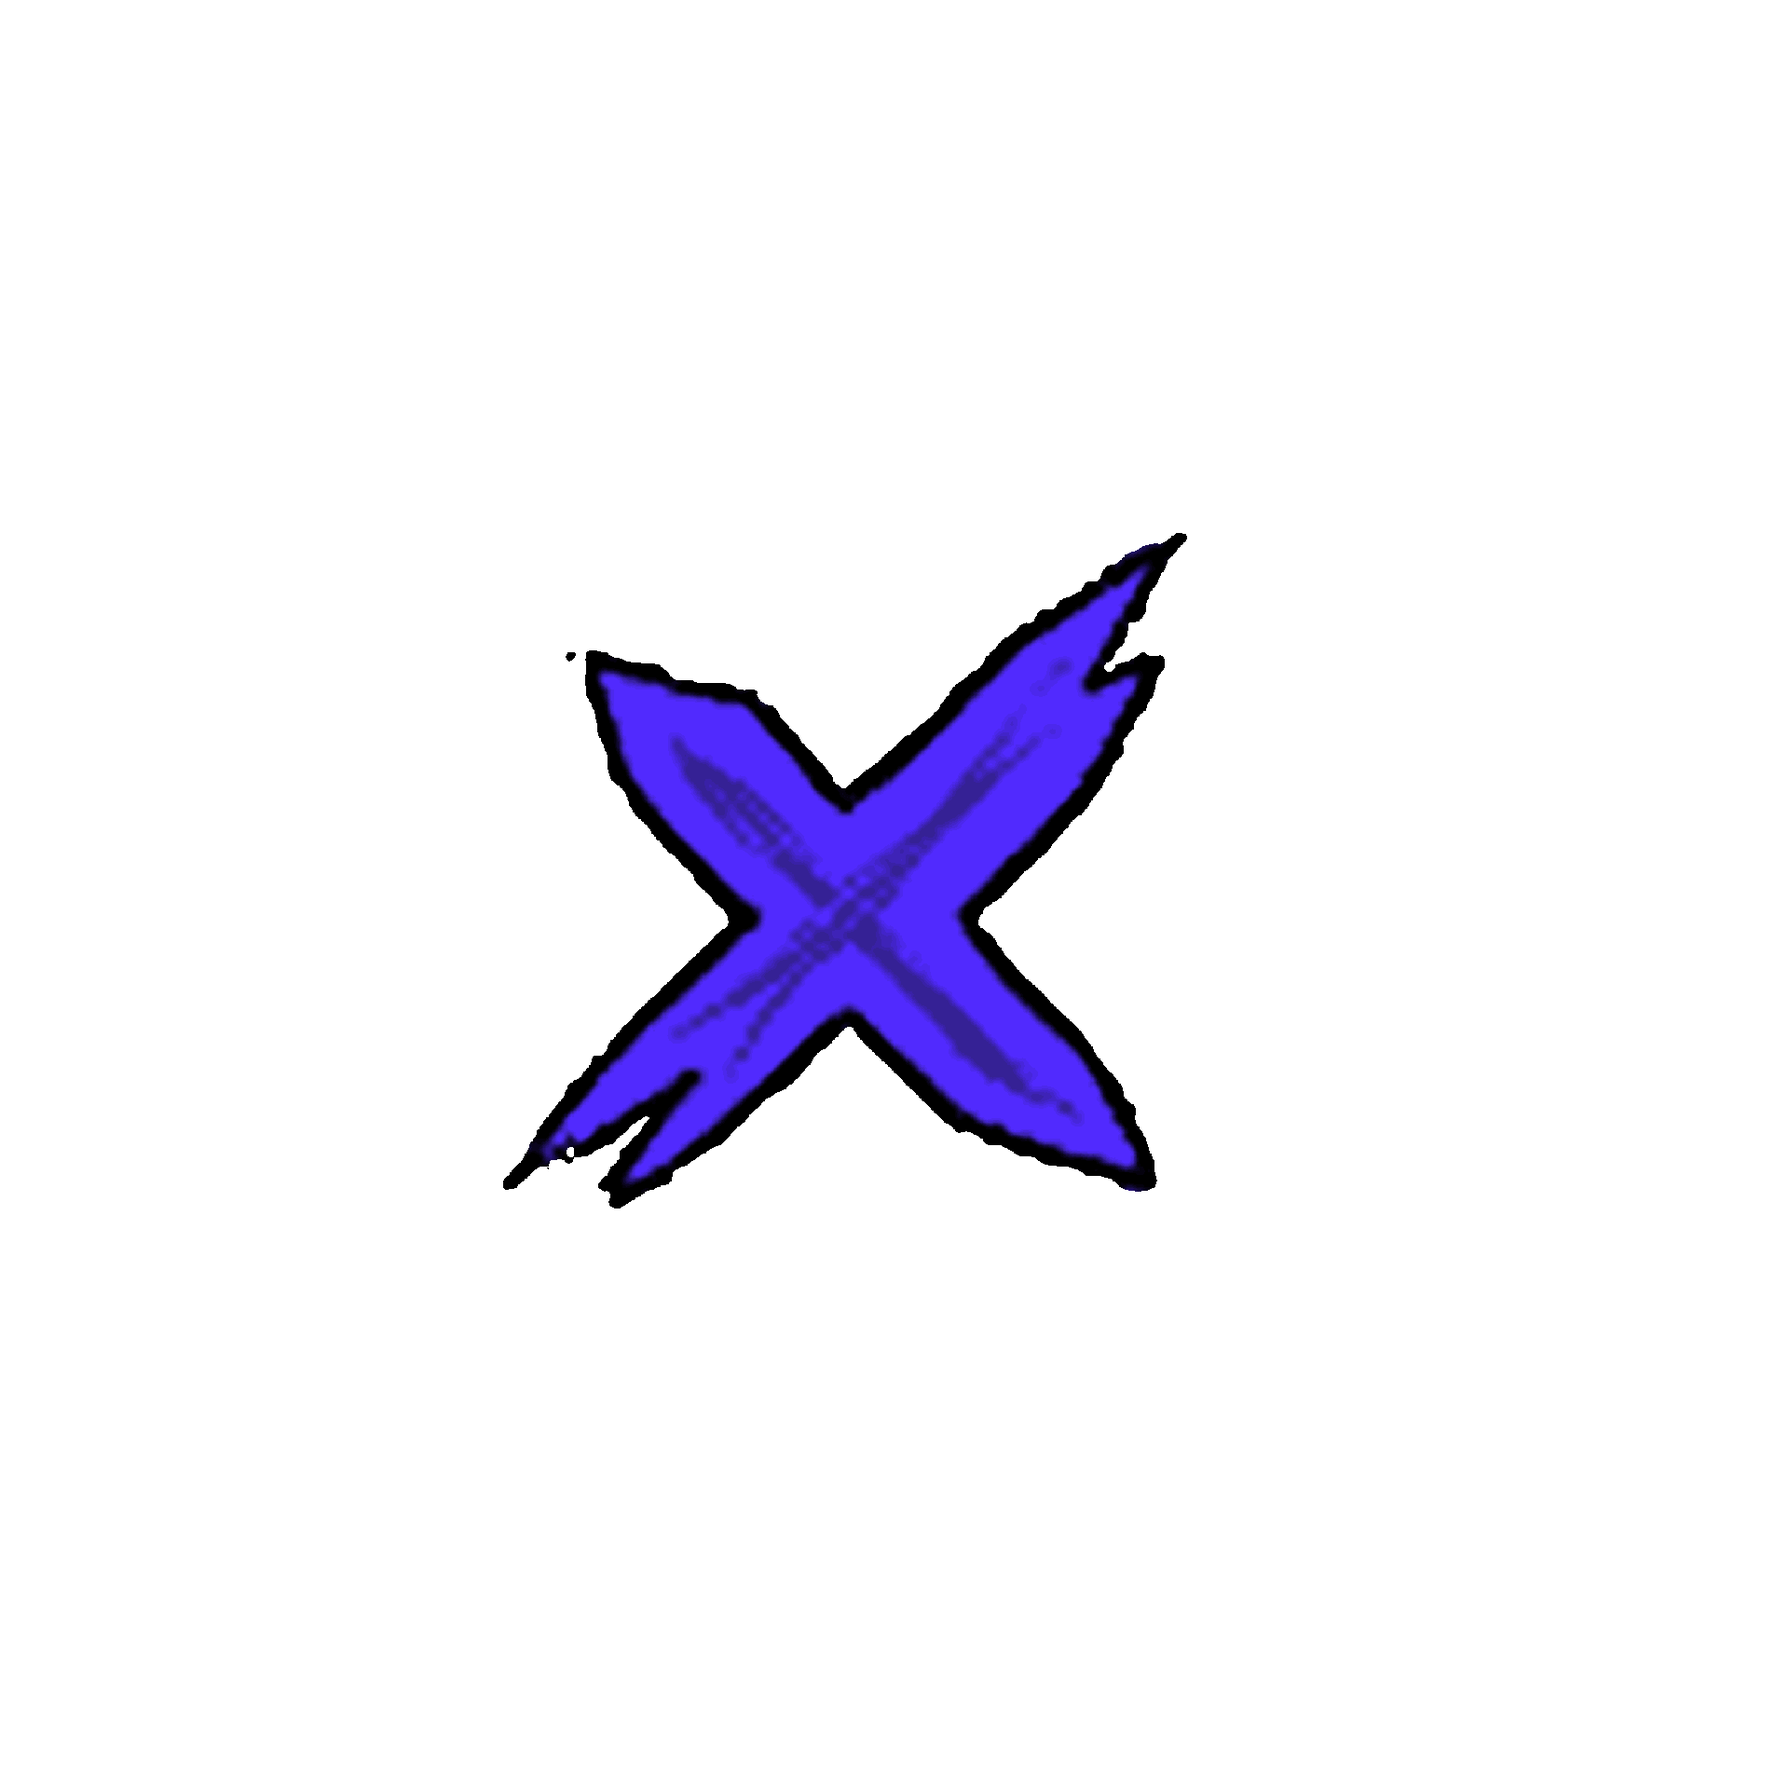
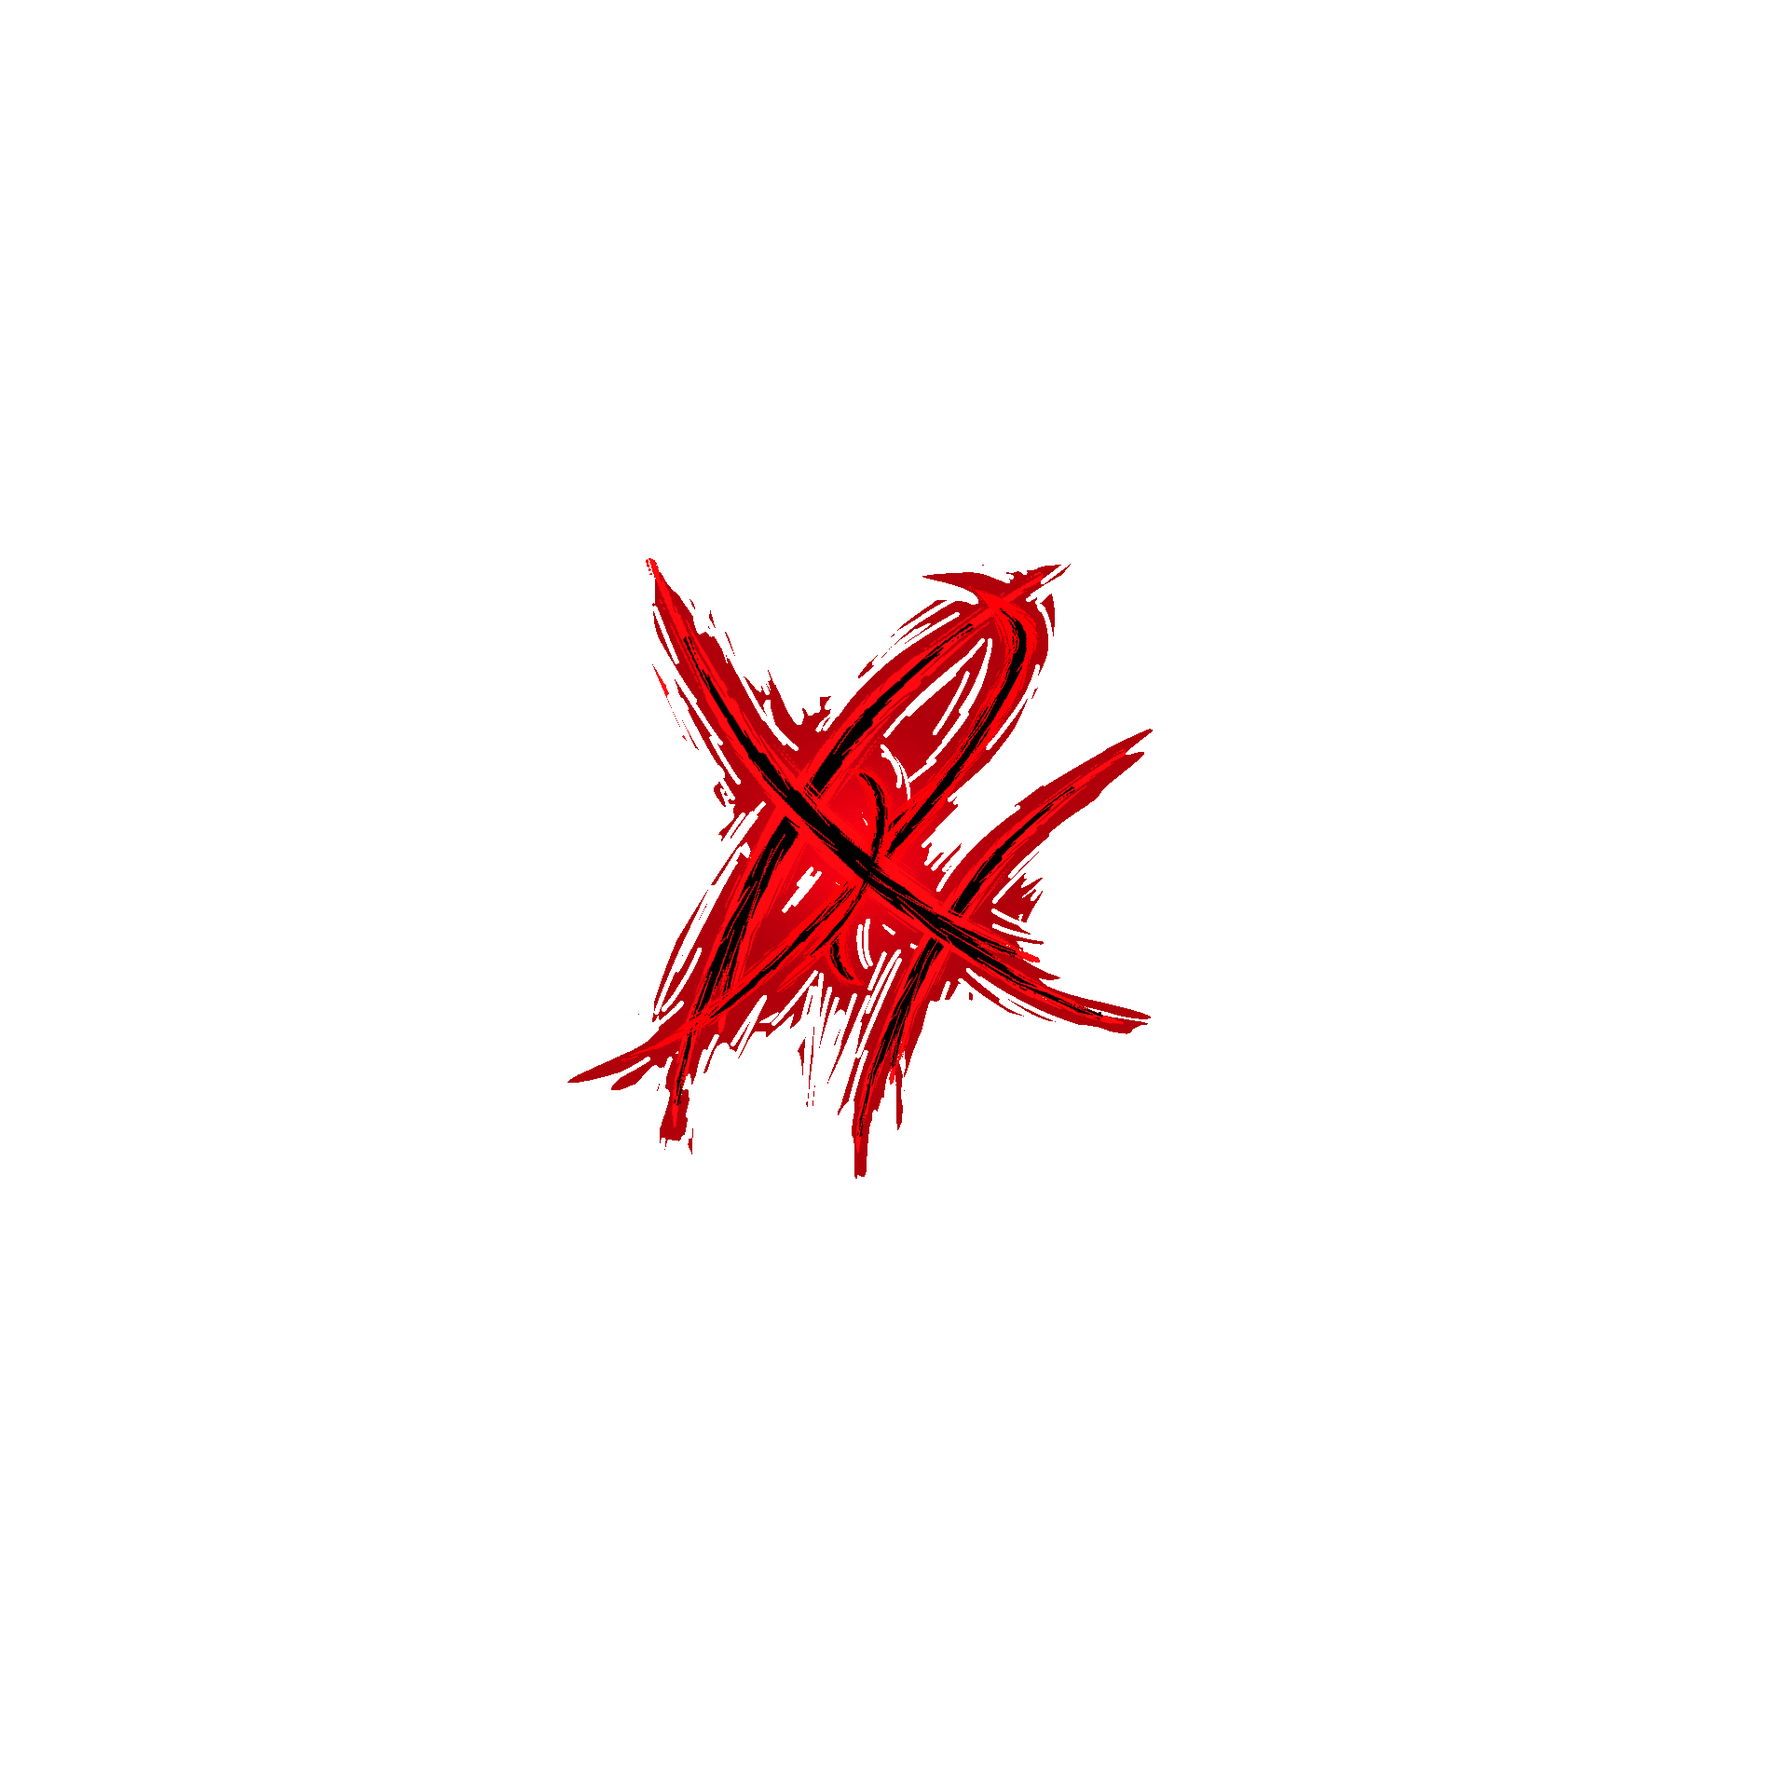
added new combo textures. also fixed pause to stagesleect

Changed region(s): [[0.2812, 0.2812, 0.6562, 0.6875]]

diff --git a/DX21_05_Init/Game.cpp b/DX21_05_Init/Game.cpp
@@ -231,37 +231,37 @@ void DrawComboUI(void)
         return;
     }
 
-    float comboX = 0.6f;   // right side
-    float comboY = 0.7f;   // top side
+    float comboX = 0.4f;   // right side
+    float comboY = 0.5f;   // top side
 
-    // change the size of it
-    float xWidth = 0.15f;   // Width of the "X" symbol
-    float xHeight = 0.15f;  // Height of the "X" symbol
-    float numberWidth = 0.1f;   // Width of the number
-    float numberHeight = 0.1f;  // Height of the number
-    float spaceBetweenDigits = 0.1f;
-
-    float pixelX = (SCREEN_WIDTH * 0.5f) - 120.0f;
-    float pixelY = (SCREEN_HEIGHT * 0.5f) - 40.0f;
+    // modify the size of it
+    float xWidth = 0.45f;   // Width of the "X" symbol
+    float xHeight = 0.5f;  // Height of the "X" symbol
+    float xYaxis = 0.45f; // change the y axis of the X symbol
+    float digitWidth = 0.15f;   // Width of the number
+    float digitHeight = 0.35f;
+    float digitYaxis = 0.55f;
+    float spaceBetweenDigits = 0.12f;
+    float spaceBetweenXandDigit = 0.08f;
 
     SetColor(1.0f, 1.0f, 1.0f, 1.0f);
 
     // Draw the "X" symbol
-    RenderImage(comboX, comboY, xWidth, xHeight, g_comboXTexture, 0, 1, 1);
+    RenderImage(comboX, xYaxis, xWidth, xHeight, g_comboXTexture, 0, 1, 1);
 
     char buffer[32];
-    sprintf_s(buffer, "%d", g_player.comboCount);
+    sprintf_s(buffer, "%d", g_player.comboCount); // it converts the number into digits
 
-    float numberXaxis = comboX + numberWidth + 0.02f; // for the first number x axis position
+    float digitXaxis = comboX + (xWidth * 0.5f) + spaceBetweenXandDigit; // for the first number x axis position 
 
     // Draw combo number
     for (int i = 0; buffer[i] != '\0'; i++)
     {
         int digit = buffer[i] - '0';  // 1 for frame 1, 2 for frame 2, 3 for frame 3, etc etc
-        RenderImage(numberXaxis, comboY, numberWidth, numberHeight,
-            pTextureNum, digit, 1, 10);
+        RenderImage(digitXaxis, digitYaxis, digitWidth, digitHeight,
+            g_comboNumberTexture, digit, 1, 10);
 
-        numberXaxis += spaceBetweenDigits;  // Move to next digit position
+        digitXaxis += spaceBetweenDigits; // Move to next digit position
     }
 
     // Combo remaining-time bar (under the combo UI)
@@ -274,16 +274,16 @@ void DrawComboUI(void)
 
     float barWidth = 0.28f;
     float barHeight = 0.025f;
-    float barX = comboX + 0.02f;
-    float barY = comboY - 0.12f;
+    float barX = comboX + 0.2f;
+    float barY = comboY - 0.02f;
 
     // background
     SetColor(0.05f, 0.05f, 0.05f, 0.75f);
-    RenderImage(barX, barY, barWidth, barHeight, g_groundTexture, 0, 1, 1);
+    RenderImage(barX, barY, barWidth, barHeight, g_bossHealthBarTexture, 0, 1, 1);
 
     // fill
-    SetColor(1.0f, 0.85f, 0.2f, 0.95f);
-    RenderImage(barX - (barWidth * (1.0f - ratio) * 0.5f), barY, barWidth * ratio, barHeight, g_groundTexture, 0, 1, 1);
+    SetColor(1.0f, 0.0f, 0.0f, 0.95f);
+    RenderImage(barX - (barWidth * (1.0f - ratio) * 0.5f), barY, barWidth * ratio, barHeight, g_bossHealthBarTexture, 0, 1, 1);
 
     SetColor(1.0f, 1.0f, 1.0f, 1.0f);
 }
@@ -494,9 +494,8 @@ void InitGameWorld() {
     LoadTexture(g_pDevice, "asset/UI/gauge/gauge_effect_max.png", &g_gaugeFullEffectTexture);
     g_gaugeEffectAnim.AddClip("GaugeFull", 1, 7, 1, 8, 0.08f, true, g_gaugeFullEffectTexture);
 
-
     LoadTexture(g_pDevice, "asset/UI/attack_count.png", &g_attackCountTestTexture);
-    //g_player.anim.AddClip("AttackCount", 2, 0, 1, 3, 0.08f, false, g_attackCountTestTexture);
+
 
     InitEnemies();
     g_mapManager.InitializeMaps();

diff --git a/DX21_05_Init/Enemy.cpp b/DX21_05_Init/Enemy.cpp
@@ -1896,11 +1896,13 @@ void BeamEnemy::OnDeath() {
 
 void BeamEnemy::CreateDeathExplosion() {
     // Damages other enemies but not the player
+    // the center position of this beam enemy
     float centerX = posX + width * 0.5f;
     float centerY = posY + height * 0.5f;
 
+    // the explosion is really big like a big circle OLD VERSION
     // Damage nearby enemies
-    for (auto& enemy : g_enemies) {
+    /*for (auto& enemy : g_enemies) {
         if (!enemy->IsAlive() || enemy == this) continue;
 
         float dx = enemy->GetX() + enemy->GetWidth() * 0.5f - centerX;
@@ -1909,6 +1911,43 @@ void BeamEnemy::CreateDeathExplosion() {
 
         if (distance <= deathExplosionRadius) {
             float angle = atan2(dy, dx);
+            enemy->TakeDamage((int)deathExplosionDamage, angle);
+        }
+    }*/
+
+    // with this the explosion is like "+" which is the laser shape when the beam enemy is killed
+    for (auto& enemy : g_enemies) {
+        if (!enemy->IsAlive() || enemy == this) continue;
+
+        // calculates the center position of the enemies
+        float enemyCenterX = enemy->GetX() + enemy->GetWidth() * 0.5f;
+        float enemyCenterY = enemy->GetY() + enemy->GetHeight() * 0.5f;
+
+        // for the horizontal and vertical distances between the two centers (the center is the beam enemy)
+        // fabs so the value is always positive
+        float distanceX = fabs(enemyCenterX - centerX);
+        float distanceY = fabs(enemyCenterY - centerY);
+
+        bool hitHorizontal = false;
+        bool hitVertical = false;
+
+        // Check horizontal beam (left and right line)
+        if (distanceY < beamHitboxWidth && distanceX < deathExplosionRadius) {
+            hitHorizontal = true;
+        }
+
+        // Check vertical beam (up and down line)
+        if (distanceX < beamHitboxWidth && distanceY < deathExplosionRadius) {
+            hitVertical = true;
+        }
+
+        // Hit if touching either line
+        bool hit = (hitHorizontal || hitVertical);
+
+        if (hit) {
+            float dx = enemyCenterX - centerX;
+            float dy = enemyCenterY - centerY;
+            float angle = atan2(dy, dx); // calculates the angle in radians  from one point to another from the beam enemy when hitting other enemies
             enemy->TakeDamage((int)deathExplosionDamage, angle);
         }
     }

diff --git a/DX21_05_Init/Player.cpp b/DX21_05_Init/Player.cpp
@@ -1157,36 +1157,17 @@ bool ConsumeDashPoint() {
     return false;
 }
 
-// Restore point on enemy defeat (reserved interface)
+// get kills on enemy defeat
 void OnEnemyDefeated() {
     // Track kill for statistics
     g_gameStats.IncrementKills();
-
-   /* if (g_player.dashPoints < g_player.MAX_DASH_POINTS) {
-        g_player.dashPoints++;
-    }*/
 }
 
 void OnEnemyDefeated(bool wasWeakPointKill) {
-    //// for 30 points kill
-    //if (wasWeakPointKill) {
-    //    g_gameStats.IncrementWeakPointKills();
-    //}
-    //else { // for 10 points kill
-    //    g_gameStats.IncrementKills();
-    //}
-
-    //if (g_player.dashPoints < g_player.MAX_DASH_POINTS) {
-    //    g_player.dashPoints++;
-    //}
-
-    //g_player.comboCount++;
-    //g_player.comboTimer = g_player.COMBO_RESET_TIME;  // Reset to 2.0f
-
     // Track kills for statistics
     if (wasWeakPointKill) {
         g_gameStats.IncrementWeakPointKills();  // 30 points
-        g_gameStats.AddScore(30);           // ← make sure this exists and adds 30
+        g_gameStats.AddScore(30); 
         printf("[POINTS] Weak kill +30 → total now = %d\n", g_gameStats.GetTotalEnemyPoints());
     }
     else {
@@ -1196,7 +1177,7 @@ void OnEnemyDefeated(bool wasWeakPointKill) {
     // Restore dash point
     if (g_player.dashPoints < g_player.MAX_DASH_POINTS) {
         g_player.dashPoints++;
-        g_gameStats.AddScore(10);           // ← this line must exist and must be 10
+        g_gameStats.AddScore(10); 
         printf("[POINTS] Normal kill +10 → total now = %d\n", g_gameStats.GetTotalEnemyPoints());
     }
 

diff --git a/DX21_05_Init/Projectile.cpp b/DX21_05_Init/Projectile.cpp
@@ -388,6 +388,7 @@ ID3D11ShaderResourceView* ProjectileManager::GetTextureForType(ProjectileType ty
     case ProjectileType::LIGHTNING: return lightningTexture;
     case ProjectileType::POISON_DART: return poisonDartTexture;
     case ProjectileType::HOLY_BOLT: return holyBoltTexture;
+    case ProjectileType::BULLET: return bulletTexture;
     default: return fireballTexture;
     }
 }
@@ -470,6 +471,7 @@ void ProjectileManager::ClearAll() {
 void ProjectileManager::LoadTextures(ID3D11Device* device) {
     // Load various projectile textures
     LoadTexture(device, "asset/enemy/enemy_005_thorn/enemy_005_thorn_Pbullet_right.png", &fireballTexture);
+    LoadTexture(device, "asset/enemy/enemy_003_fort/enemy_003_fort_bullet.png", &bulletTexture);
     LoadTexture(device, "asset/Projectile_IceShard.png", &iceShardTexture);
 
 }
@@ -482,6 +484,15 @@ void ProjectileManager::CreateFireball(float startX, float startY, float targetX
     effect.areaRadius = 0.3f;
 
     AddProjectile(ProjectileType::FIREBALL, startX, startY, targetX, targetY, 0.2f, effect, fromPlayer);
+}
+
+void ProjectileManager::CreateBullet(float startX, float startY, float targetX, float targetY, bool fromPlayer) {
+    ProjectileEffect effect;
+    effect.damage = 100000.0f;
+    effect.burnDamage = 5.0f;
+    effect.areaRadius = 0.3f;
+
+    AddProjectile(ProjectileType::BULLET, startX, startY, targetX, targetY, 0.2f, effect, fromPlayer);
 }
 
 void ProjectileManager::CreateIceShard(float startX, float startY, float targetX, float targetY, bool fromPlayer) {

diff --git a/DX21_05_Init/MapWorld1.cpp b/DX21_05_Init/MapWorld1.cpp
@@ -26,7 +26,7 @@ void Map::CreateWorld1Area1Map() {
         {"00","00","00","DL","G1","G1","DR","00","00","00","00","E9","E9","E9","00","00","G1","G1","00","00","00","00","00","G1","G1","00","00","00","00","00","00","00","00","G1","00","00","00","00","00","00","00","00","00","DF","00"},
         {"00","S1","DL","00","G1","G1","00","DR","00","00","00","00","00","00","00","00","G1","G1","00","00","00","00","00","G1","G1","G1","G1","G1","G1","00","00","00","00","G1","00","00","00","00","G1","G1","G1","G1","G1","G1","G1"},
         {"G1","G1","G1","G1","G1","G1","G1","G1","00","00","G1","G1","G1","G1","G1","G1","G1","G1","00","00","00","00","00","G1","G1","G1","G1","G1","G1","00","00","00","00","00","00","00","00","00","G1","G1","G1","G1","G1","G1","G1"},
-        {"G1","G1","G1","G1","G1","G1","G1","G1","00","00","00","G1","G1","G1","G1","G1","G1","G1","00","00","00","00","00","G1","G1","G1","G1","G1","G1","00","00","00","00","G1","G1","00","00","00","G1","G1","G1","G1","G1","G1","G1"}
+        {"G1","G1","G1","G1","G1","G1","G1","G1","00","00","G1","G1","G1","G1","G1","G1","G1","G1","00","00","00","00","00","G1","G1","G1","G1","G1","G1","00","00","00","00","G1","G1","00","00","00","G1","G1","G1","G1","G1","G1","G1"}
     };
 
     LoadFromGrid(midgroundGrid, MapLayer::MIDGROUND);

diff --git a/DX21_05_Init/Projectile.h b/DX21_05_Init/Projectile.h
@@ -13,7 +13,8 @@ enum class ProjectileType {
     MAGIC_MISSILE,  // 魔法飞弹 - 跟踪敌人
     LIGHTNING,      // 闪祦E- 瞬间脕E?
     POISON_DART,    // 毒丒 - 持续伤害
-    HOLY_BOLT       // 圣光箭 - 对亡灵特效
+    HOLY_BOLT,       // 圣光箭 - 对亡灵特效
+    BULLET
 };
 
 // 射弹效果结构
@@ -107,6 +108,7 @@ public:
     void CreateLightningStrike(float startX, float startY, float targetX, float targetY, bool fromPlayer = true);
     void CreatePoisonDart(float startX, float startY, float targetX, float targetY, bool fromPlayer = true);
     void CreateHolyBolt(float startX, float startY, float targetX, float targetY, bool fromPlayer = true);
+    void CreateBullet(float startX, float startY, float targetX, float targetY, bool fromPlayer = true);
     ID3D11ShaderResourceView* GetTextureForType(ProjectileType type);
     void LoadTextures(ID3D11Device* device);
 
@@ -116,6 +118,7 @@ private:
 
     // 射弹纹纴E
     ID3D11ShaderResourceView* fireballTexture = nullptr;
+    ID3D11ShaderResourceView* bulletTexture = nullptr;
     ID3D11ShaderResourceView* iceShardTexture = nullptr;
     ID3D11ShaderResourceView* magicMissileTexture = nullptr;
     ID3D11ShaderResourceView* lightningTexture = nullptr;

diff --git a/DX21_05_Init/Result.cpp b/DX21_05_Init/Result.cpp
@@ -90,19 +90,19 @@ void ResultScene::Draw()
 
         // for kills
         int totalKills = g_gameStats.GetEnemiesKilled() + g_gameStats.GetWeakPointKills();
-        DrawNumber(totalKills, -0.6f, 0.45f, 0.1f, 0.1f, numberTexture);
+        DrawNumber(totalKills, -0.55f, 0.47f, 0.1f, 0.1f, numberTexture);
 
         // for deaths
-        DrawNumber(g_gameStats.GetTotalDeaths(), -0.6f, 0.05f, 0.1f, 0.1f, numberTexture);
+        DrawNumber(g_gameStats.GetTotalDeaths(), -0.55f, 0.07f, 0.1f, 0.1f, numberTexture);
 
         // for time
         int minutes = (int)(g_gameStats.GetTotalTime() / 60.0f);
         int seconds = (int)g_gameStats.GetTotalTime() % 60;
-        DrawTime(minutes, seconds, -0.6f, 0.25f, 0.1f, numberTexture);
-        RenderImage(-0.45f, 0.25f, 0.1f, 0.16f, dotTexture, 0, 1, 1);
+        DrawTime(minutes, seconds, -0.55f, 0.27f, 0.1f, numberTexture);
+        RenderImage(-0.4f, 0.27f, 0.1f, 0.16f, dotTexture, 0, 1, 1);
 
         // show the final calculated score
-        DrawNumber(g_gameStats.GetTotalScore(), 0.3f, 0.05f, 0.1f, 0.1f, numberTexture);
+        DrawNumber(g_gameStats.GetTotalScore(), 0.3f, 0.07f, 0.1f, 0.1f, numberTexture);
     }
 
     for (const auto& btn : uiButtons)

diff --git a/DX21_05_Init/SceneManager.cpp b/DX21_05_Init/SceneManager.cpp
@@ -245,6 +245,28 @@ bool SceneManager::SwitchToStage(int world, int stage)
     return SwitchScene(GAMEPLAY);
 }
 
+SCENE SceneManager::GetStageSelectForCurrentStage()
+{
+    int stage = currentStageInfo.GetWorld();
+
+    if (stage == 1)
+    {
+        return STAGESELECT;
+    }
+    else if (stage == 2)
+    {
+        return STAGESELECT2;
+    }
+    else if (stage == 3)
+    {
+        return STAGESELECT3;
+    }
+    else
+    {
+        return STAGESELECT;  // default to stage1
+    }
+}
+
 //for updating 
 void SceneManager::Update(float deltaTime) 
 {

diff --git a/DX21_05_Init/Pause.cpp b/DX21_05_Init/Pause.cpp
@@ -42,7 +42,7 @@ bool PauseScene::Init()
     uiButtons.back().SetHitboxScale(0.35f, 0.1f);
     uiButtons.back().SetHitboxOffset(-0.03f);
 
-    uiButtons.emplace_back(0.50f, -0.65f, 1.0f, 1.5f, STAGESELECT, selectTexture, selectHoverTexture);
+    uiButtons.emplace_back(0.50f, -0.65f, 1.0f, 1.5f, sceneManager->GetStageSelectForCurrentStage()/*STAGESELECT*/, selectTexture, selectHoverTexture);
     uiButtons.back().SetHitboxScale(0.7f, 0.1f);
     uiButtons.back().SetHitboxOffset(-0.0f);
 

diff --git a/DX21_05_Init/Enemy.h b/DX21_05_Init/Enemy.h
@@ -447,8 +447,8 @@ private:
         BEAM_POST_ATTACK
     };
 
-    void CheckBeamDamage();
-    void CreateDeathExplosion();
+    void CheckBeamDamage(); // damages the player
+    void CreateDeathExplosion(); // Damages other enemies but not the player
 
     // Beam parameters - separate horizontal and vertical!
     float beamHitboxWidth = 0.1f;        // make it wider as you want

diff --git a/DX21_05_Init/SceneManager.h b/DX21_05_Init/SceneManager.h
@@ -57,4 +57,5 @@ public:
     void SetOriginalPausedScene(SCENE scene) { originalPausedScene = scene; }
 
     StageInfo GetCurrentStageInfo() const { return currentStageInfo; } //new test
+    SCENE GetStageSelectForCurrentStage();
 };
